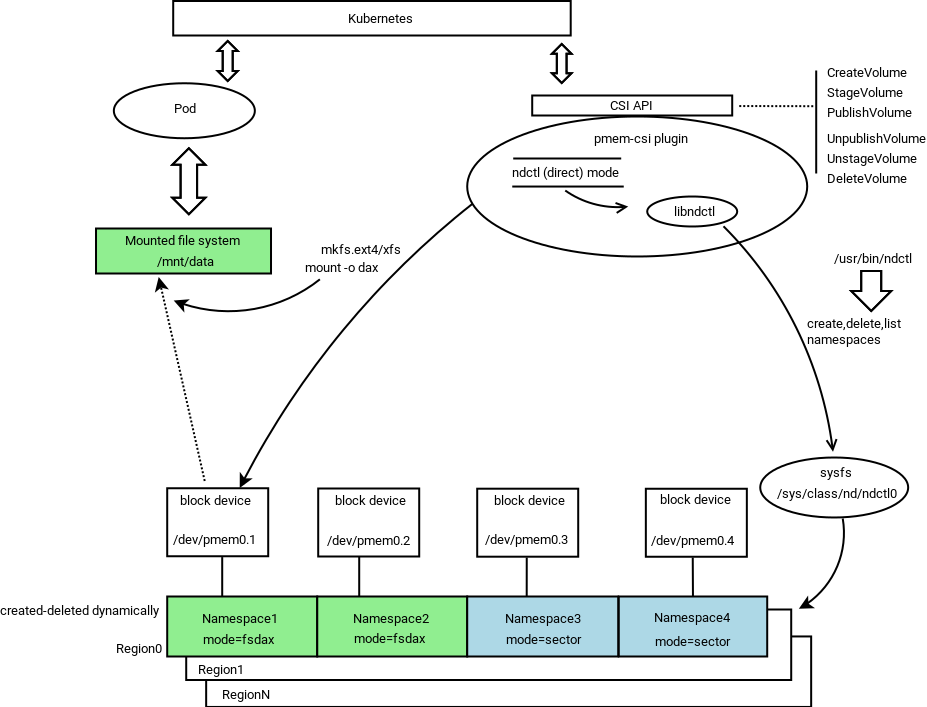
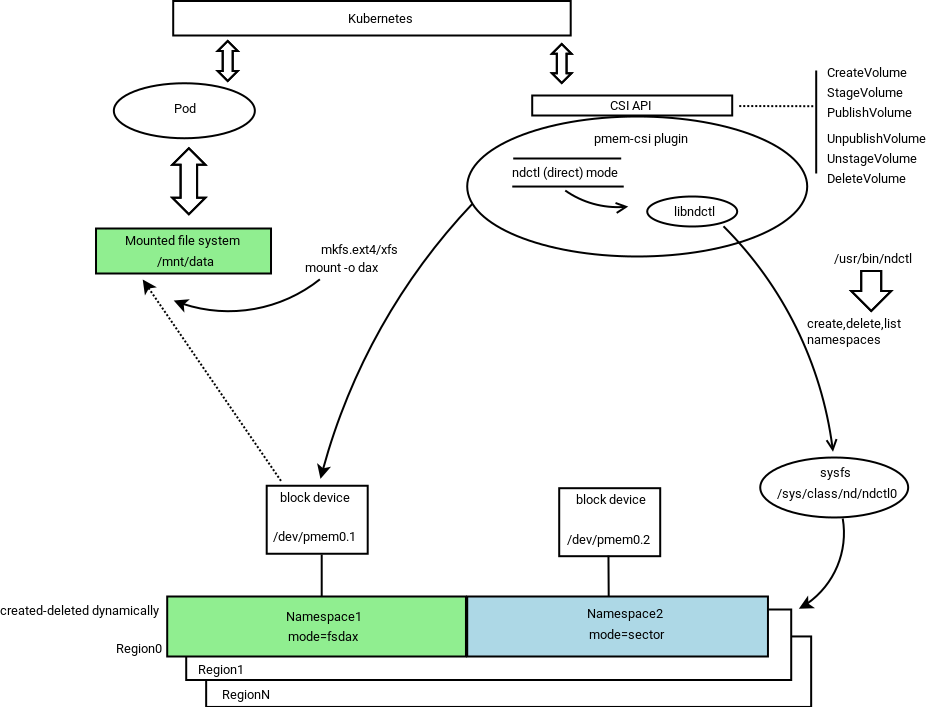
Drop -namespacesize option, related code, update related doc
Maintaining multiple fixed-size namespaces does not add value,
so let's create a single namespace per namespace mode (fsdax, sector).
Modify DeviceMode diagrams of README to show less namespaces

diff --git a/pkg/pmem-ns-init/main.go b/pkg/pmem-ns-init/main.go
@@ -15,10 +15,9 @@ var (
 	/* generic options */
 	//TODO: reading name configuration not yet supported
 	//configFile    = flag.String("configfile", "/etc/pmem-csi/config", "PMEM CSI driver namespace configuration file")
-	namespacesize = flag.Int("namespacesize", 32, "Namespace size in GB")
-	useforfsdax   = flag.Int("useforfsdax", 100, "Percentage of total to use in Fsdax mode")
-	useforsector  = flag.Int("useforsector", 0, "Percentage of total to use in Sector mode")
-	showVersion   = flag.Bool("version", false, "Show release version and exit")
+	useforfsdax  = flag.Int("useforfsdax", 100, "Percentage of total to use in Fsdax mode")
+	useforsector = flag.Int("useforsector", 0, "Percentage of total to use in Sector mode")
+	showVersion  = flag.Bool("version", false, "Show release version and exit")
 
 	version = "unknown"
 )
@@ -36,7 +35,7 @@ func Main() int {
 
 	glog.V(3).Info("Version: ", version)
 
-	if err := CheckArgs(*namespacesize, *useforfsdax, *useforsector); err != nil {
+	if err := CheckArgs(*useforfsdax, *useforsector); err != nil {
 		pmemcommon.ExitError("invalid arguments", err)
 		return 1
 	}
@@ -46,11 +45,11 @@ func Main() int {
 		return 1
 	}
 
-	initNVdimms(ctx, *namespacesize, *useforfsdax, *useforsector)
+	initNVdimms(ctx, *useforfsdax, *useforsector)
 	return 0
 }
 
-func CheckArgs(namespacesize int, useforfsdax int, useforsector int) error {
+func CheckArgs(useforfsdax int, useforsector int) error {
 	if useforfsdax < 0 || useforfsdax > 100 {
 		return fmt.Errorf("useforfsdax value must be 0..100")
 	}
@@ -60,25 +59,19 @@ func CheckArgs(namespacesize int, useforfsdax int, useforsector int) error {
 	if useforfsdax+useforsector > 100 {
 		return fmt.Errorf("useforfsdax and useforsector combined must not exceed 100")
 	}
-	if namespacesize < 2 {
-		return fmt.Errorf("namespacesize has to be at least 2 GB")
-	}
 	return nil
 }
 
-func initNVdimms(ctx *ndctl.Context, namespacesize int, useforfsdax int, useforsector int) {
-	glog.V(4).Infof("Configured namespacesize; %v GB", namespacesize)
-	// we get 1GB smaller than we ask so lets ask for 1GB more
-	nsSize := uint64(namespacesize+1) * 1024 * 1024 * 1024
+func initNVdimms(ctx *ndctl.Context, useforfsdax int, useforsector int) {
 	for _, bus := range ctx.GetBuses() {
 		for _, r := range bus.ActiveRegions() {
-			createNS(r, nsSize, useforfsdax, ndctl.FsdaxMode)
-			createNS(r, nsSize, useforsector, ndctl.SectorMode)
+			createNS(r, useforfsdax, ndctl.FsdaxMode)
+			createNS(r, useforsector, ndctl.SectorMode)
 		}
 	}
 }
 
-func createNS(r *ndctl.Region, nsSize uint64, uselimit int, nsmode ndctl.NamespaceMode) {
+func createNS(r *ndctl.Region, uselimit int, nsmode ndctl.NamespaceMode) {
 	// uselimit is the percentage we can use
 	canUse := uint64(uselimit) * r.Size() / 100
 	glog.V(3).Infof("Create %s-namespaces in %v, allowed %d %%:\ntotal       : %16d\navail       : %16d\ncan use     : %16d",
@@ -90,43 +83,28 @@ func createNS(r *ndctl.Region, nsSize uint64, uselimit int, nsmode ndctl.Namespa
 			canUse -= ns.Size()
 		}
 	}
-	glog.V(4).Infof("%v bytes calculated available after scan for existing %s-mode namespaces", canUse, nsmode)
-	// cast to signed, otherwise can never be negative and risks forever-looping,
-	// broken only by break stmt below which happens after a failed creation attempt
-	for int64(canUse) > 0 {
-		if nsSize > canUse {
-			// this creates one last smaller namespace in leftover space
-			nsSize = canUse
-			glog.V(4).Infof("Less than configured namespacesize remaining, change desired size to %v", nsSize)
-		}
-		glog.V(4).Infof("Calculated canUse:%v, available by Region info:%v", canUse, r.AvailableSize())
-		// Because of overhead by alignement and extra space for page mapping, calculated available may show more than actual
-		if r.AvailableSize() < nsSize {
-			glog.V(4).Infof("Available in Region:%v is less than desired nsSize, limit nsSize to that", r.AvailableSize())
-			nsSize = r.AvailableSize()
-		}
-		// Should not happen easily, fragmented space could lead to r.MaxAvailableExtent() being less than r.AvailableSize()
-		if r.MaxAvailableExtent() < nsSize {
-			glog.V(4).Infof("MaxAvailableExtent in Region:%v is less than desired nsSize, limit nsSize to that", r.MaxAvailableExtent())
-			nsSize = r.MaxAvailableExtent()
-		}
-		// If NSize drops to less than 2GB, stop as creation would fail
-		if nsSize < 2*1024*1024*1024 {
-			glog.V(4).Infof("nsSize:%v is less then 2 GB, stop creating", nsSize)
-			break
-		}
-		glog.V(3).Infof("Create next %v-bytes %s-namespace", nsSize, nsmode)
+	glog.V(4).Infof("Calculated canUse:%v, available by Region info:%v", canUse, r.AvailableSize())
+	// Because of overhead by alignement and extra space for page mapping, calculated available may show more than actual
+	if r.AvailableSize() < canUse {
+		glog.V(4).Infof("Available in Region:%v is less than desired size, limit to that", r.AvailableSize())
+		canUse = r.AvailableSize()
+	}
+	// Should not happen often: fragmented space could lead to r.MaxAvailableExtent() being less than r.AvailableSize()
+	if r.MaxAvailableExtent() < canUse {
+		glog.V(4).Infof("MaxAvailableExtent in Region:%v is less than desired size, limit to that", r.MaxAvailableExtent())
+		canUse = r.MaxAvailableExtent()
+	}
+	// If less than 2GB usable, don't attempt as creation would fail
+	if canUse >= 2*1024*1024*1024 {
+		glog.V(3).Infof("Create %v-bytes %s-namespace", canUse, nsmode)
 		_, err := r.CreateNamespace(ndctl.CreateNamespaceOpts{
 			Name:  "pmem-csi",
 			Mode:  nsmode,
-			Size:  nsSize,
+			Size:  canUse,
 			Align: 1024 * 1024 * 1024,
 		})
 		if err != nil {
 			glog.Warning("Failed to create namespace:", err.Error())
-			/* ??? something went wrong, leave this region ??? */
-			break
 		}
-		canUse -= nsSize
 	}
 }

diff --git a/pkg/pmem-ns-init/main_test.go b/pkg/pmem-ns-init/main_test.go
@@ -26,37 +26,34 @@ var _ = AfterSuite(func() {
 var _ = Describe("pmem-ns-init", func() {
 	Context("Check arguments", func() {
 		type cases struct {
-			name                                     string
-			namespacesize, useforfsdax, useforsector int
+			name                      string
+			useforfsdax, useforsector int
 		}
 		goodcases := []cases{
-			{"namespacesize ok", 32, 0, 0},
-			{"useforfsdax ok", 32, 50, 0},
-			{"useforsector ok", 32, 0, 50},
-			{"useforfsdax and useforsector combined 100", 32, 70, 30},
-			{"useforfsdax and useforsector combined less than 100", 32, 40, 30},
+			{"useforfsdax ok", 50, 0},
+			{"useforsector ok", 0, 50},
+			{"useforfsdax and useforsector combined 100", 70, 30},
+			{"useforfsdax and useforsector combined less than 100", 40, 30},
 		}
 		badcases := []cases{
-			{"namespacesize negative", -1, 0, 0},
-			{"namespacesize too small", 1, 0, 0},
-			{"useforfsdax negative", 32, -1, 0},
-			{"useforsector negative", 32, 0, -1},
-			{"useforfsdax too large", 32, 101, 0},
-			{"useforsector too large", 32, 0, 101},
-			{"useforfsdax and useforsector combined too large", 32, 51, 51},
+			{"useforfsdax negative", -1, 0},
+			{"useforsector negative", 0, -1},
+			{"useforfsdax too large", 101, 0},
+			{"useforsector too large", 0, 101},
+			{"useforfsdax and useforsector combined too large", 51, 51},
 		}
 
 		for _, c := range goodcases {
 			c := c
 			It(c.name, func() {
-				err := pmemnsinit.CheckArgs(c.namespacesize, c.useforfsdax, c.useforsector)
+				err := pmemnsinit.CheckArgs(c.useforfsdax, c.useforsector)
 				Expect(err).NotTo(HaveOccurred())
 			})
 		}
 		for _, c := range badcases {
 			c := c
 			It(c.name, func() {
-				err := pmemnsinit.CheckArgs(c.namespacesize, c.useforfsdax, c.useforsector)
+				err := pmemnsinit.CheckArgs(c.useforfsdax, c.useforsector)
 				Expect(err).To(HaveOccurred())
 			})
 		}

diff --git a/README.md b/README.md
@@ -76,10 +76,8 @@ initialization stages and a third API-serving stage.
 
 During startup, the driver scans persistent memory for regions and
 namespaces, and tries to create more namespaces using all or part
-(selectable via option) of the remaining available space. The
-namespace size can be specified as a driver parameter and defaults to
-32 GB. This first stage is performed by a separate entity
-_pmem-ns-init_.
+(selectable via option) of the remaining available space. This first
+stage is performed by a separate entity _pmem-ns-init_.
 
 The second stage of initialization arranges physical volumes provided
 by namespaces into LVM volume groups. This is performed by a separate

diff --git a/DEVELOPMENT.md b/DEVELOPMENT.md
@@ -119,7 +119,6 @@ Specific arguments to pmem-ns-init
 
 argument name      | meaning                                                | type | range
 -------------------|--------------------------------------------------------|------|---
--namespacesize in  | Namespace size in GB (default 32)                      | int  | set to 2 if less than 2
 -useforfsdax int   | Percentage of total to use in Fsdax mode (default 100) | int  | 0..100
 -useforsector int  | Percentage of total to use in Sector mode (default 0)  | int  | 0..100
 
